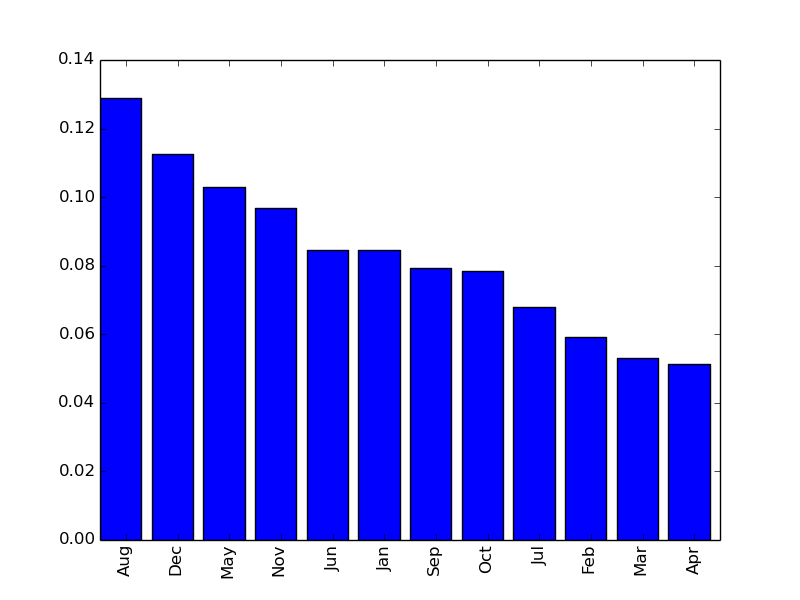
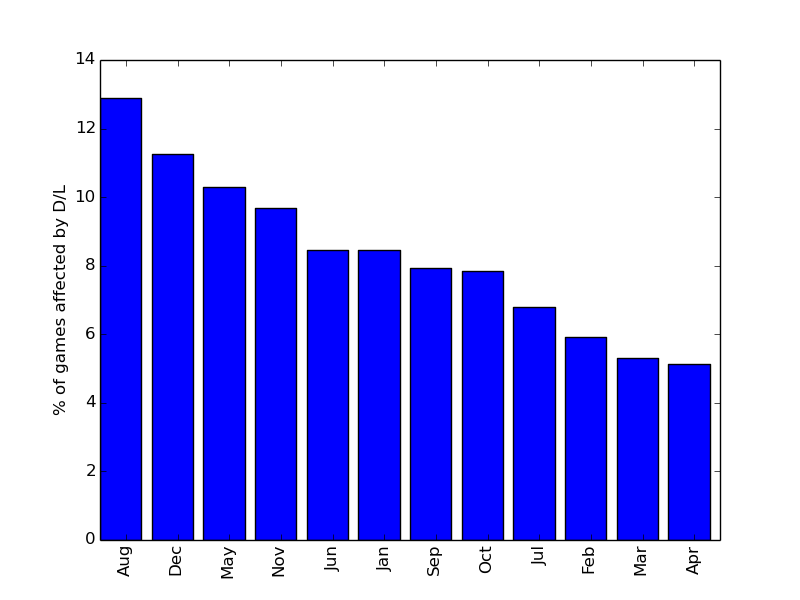
Fixed typo in introduction

diff --git a/Cricket-DuckworthLewis/index.html b/Cricket-DuckworthLewis/index.html
@@ -11778,7 +11778,7 @@ div#notebook {
 </div>
 <div class="inner_cell">
 <div class="text_cell_render border-box-sizing rendered_html">
-<h1 id="Duckworth-Lewis-in-limited-overs-cricket-matches">Duckworth-Lewis in limited overs cricket matches<a class="anchor-link" href="#Duckworth-Lewis-in-limited-overs-cricket-matches">&#182;</a></h1><h2 id="Introduction">Introduction<a class="anchor-link" href="#Introduction">&#182;</a></h2><p>Duckworth-Lewis method (<a href="https://en.wikipedia.org/wiki/Duckworth%E2%80%93Lewis_method">https://en.wikipedia.org/wiki/Duckworth%E2%80%93Lewis_method</a>) is used to calculate the modified target score for the team batting second in a cricket match where some overs are lost due to rain interruption. In this blog, I have done taken a close look at such matches, primarily focusing on location (country) and the time of the year when a match is most likely to get affected by D/L.</p>
+<h1 id="Duckworth-Lewis-in-limited-overs-cricket-matches">Duckworth-Lewis in limited overs cricket matches<a class="anchor-link" href="#Duckworth-Lewis-in-limited-overs-cricket-matches">&#182;</a></h1><h2 id="Introduction">Introduction<a class="anchor-link" href="#Introduction">&#182;</a></h2><p>Duckworth-Lewis method (<a href="https://en.wikipedia.org/wiki/Duckworth%E2%80%93Lewis_method">https://en.wikipedia.org/wiki/Duckworth%E2%80%93Lewis_method</a>) is used to calculate the modified target score for the team batting second in a cricket match where some overs are lost due to rain interruption. In this blog, I have taken a close look at such matches, primarily focusing on location (country) and the time of the year when a match is most likely to get affected by D/L.</p>
 <p>The data is available on espncricinfo.com. Scraping the website and converting the data into csv format was done by Gaurav Sood (<a href="https://github.com/soodoku/get-cricket-data">https://github.com/soodoku/get-cricket-data</a>) and Derek Willis (<a href="https://github.com/dwillis/toss-up">https://github.com/dwillis/toss-up</a>). I used the two csv files published by these authors on their respective github repositories, where they did an excellent review of the effect of toss in a cricket match (including the effect of toss on D/L affected matches).</p>
 
 </div>
@@ -11822,7 +11822,7 @@ div#notebook {
 </div>
 <div class="cell border-box-sizing code_cell rendered">
 <div class="input">
-<div class="prompt input_prompt">In&nbsp;[14]:</div>
+<div class="prompt input_prompt">In&nbsp;[2]:</div>
 <div class="inner_cell">
     <div class="input_area">
 <div class=" highlight hl-ipython2"><pre><span></span><span class="k">def</span> <span class="nf">mergeGrounds</span><span class="p">(</span><span class="n">df</span><span class="p">,</span> <span class="n">grounds</span><span class="p">):</span>
@@ -11904,7 +11904,7 @@ Clearly, day &amp; night games are affected more by D/L</p>
 </div>
 <div class="cell border-box-sizing code_cell rendered">
 <div class="input">
-<div class="prompt input_prompt">In&nbsp;[5]:</div>
+<div class="prompt input_prompt">In&nbsp;[4]:</div>
 <div class="inner_cell">
     <div class="input_area">
 <div class=" highlight hl-ipython2"><pre><span></span><span class="n">pd</span><span class="o">.</span><span class="n">options</span><span class="o">.</span><span class="n">mode</span><span class="o">.</span><span class="n">chained_assignment</span> <span class="o">=</span> <span class="bp">None</span>
@@ -11953,7 +11953,7 @@ Clearly, day &amp; night games are affected more by D/L</p>
 </div>
 <div class="cell border-box-sizing code_cell rendered">
 <div class="input">
-<div class="prompt input_prompt">In&nbsp;[6]:</div>
+<div class="prompt input_prompt">In&nbsp;[5]:</div>
 <div class="inner_cell">
     <div class="input_area">
 <div class=" highlight hl-ipython2"><pre><span></span><span class="n">totalCountries</span> <span class="o">=</span> <span class="nb">len</span><span class="p">(</span><span class="n">allMerged</span><span class="p">[</span><span class="s1">&#39;country&#39;</span><span class="p">]</span><span class="o">.</span><span class="n">value_counts</span><span class="p">())</span>
@@ -11984,7 +11984,7 @@ Clearly, day &amp; night games are affected more by D/L</p>
 </div>
 <div class="cell border-box-sizing code_cell rendered">
 <div class="input">
-<div class="prompt input_prompt">In&nbsp;[7]:</div>
+<div class="prompt input_prompt">In&nbsp;[6]:</div>
 <div class="inner_cell">
     <div class="input_area">
 <div class=" highlight hl-ipython2"><pre><span></span><span class="kn">import</span> <span class="nn">numpy</span> <span class="kn">as</span> <span class="nn">np</span>
@@ -12035,7 +12035,7 @@ Clearly, day &amp; night games are affected more by D/L</p>
 </div>
 <div class="cell border-box-sizing code_cell rendered">
 <div class="input">
-<div class="prompt input_prompt">In&nbsp;[8]:</div>
+<div class="prompt input_prompt">In&nbsp;[7]:</div>
 <div class="inner_cell">
     <div class="input_area">
 <div class=" highlight hl-ipython2"><pre><span></span><span class="n">limitedDat</span> <span class="o">=</span> <span class="n">dat</span><span class="p">[(</span><span class="n">dat</span><span class="p">[</span><span class="s1">&#39; type_of_match&#39;</span><span class="p">]</span><span class="o">!=</span><span class="s1">&#39;TEST&#39;</span><span class="p">)</span> <span class="o">&amp;</span> <span class="p">(</span><span class="n">dat</span><span class="p">[</span><span class="s1">&#39; type_of_match&#39;</span><span class="p">]</span><span class="o">!=</span><span class="s1">&#39;FC&#39;</span><span class="p">)]</span>
@@ -12061,7 +12061,7 @@ Clearly, day &amp; night games are affected more by D/L</p>
 </div>
 <div class="cell border-box-sizing code_cell rendered">
 <div class="input">
-<div class="prompt input_prompt">In&nbsp;[9]:</div>
+<div class="prompt input_prompt">In&nbsp;[8]:</div>
 <div class="inner_cell">
     <div class="input_area">
 <div class=" highlight hl-ipython2"><pre><span></span><span class="k">def</span> <span class="nf">plotCountriesPerc</span><span class="p">(</span><span class="n">df</span><span class="p">,</span> <span class="n">dfRef</span><span class="p">,</span> <span class="n">save</span><span class="o">=</span><span class="mi">0</span><span class="p">,</span> <span class="n">fName</span> <span class="o">=</span> <span class="s2">&quot;test.png&quot;</span><span class="p">):</span>
@@ -12114,7 +12114,7 @@ Clearly, day &amp; night games are affected more by D/L</p>
 </div>
 <div class="cell border-box-sizing code_cell rendered">
 <div class="input">
-<div class="prompt input_prompt">In&nbsp;[10]:</div>
+<div class="prompt input_prompt">In&nbsp;[9]:</div>
 <div class="inner_cell">
     <div class="input_area">
 <div class=" highlight hl-ipython2"><pre><span></span><span class="n">countries</span> <span class="o">=</span> <span class="n">limMerged</span><span class="p">[</span><span class="s1">&#39;country&#39;</span><span class="p">]</span><span class="o">.</span><span class="n">value_counts</span><span class="p">()</span>
@@ -12135,15 +12135,6 @@ Clearly, day &amp; night games are affected more by D/L</p>
 </div>
 <div class="inner_cell">
 <div class="text_cell_render border-box-sizing rendered_html">
-
-</div>
-</div>
-</div>
-<div class="cell border-box-sizing text_cell rendered">
-<div class="prompt input_prompt">
-</div>
-<div class="inner_cell">
-<div class="text_cell_render border-box-sizing rendered_html">
 <p><img src="./figures/07-DL-topCountries-percentage.png" alt="title"></p>
 <p>We see games in Sri Lanka has the highest probability of being affected by D/L.</p>
 <p>Since D/L is directly linked to the weather, there might be a correlation between the time of the year when the match is being played and the probability of the match being affected by D/L. Let us look at that.</p>
@@ -12153,7 +12144,7 @@ Clearly, day &amp; night games are affected more by D/L</p>
 </div>
 <div class="cell border-box-sizing code_cell rendered">
 <div class="input">
-<div class="prompt input_prompt">In&nbsp;[11]:</div>
+<div class="prompt input_prompt">In&nbsp;[10]:</div>
 <div class="inner_cell">
     <div class="input_area">
 <div class=" highlight hl-ipython2"><pre><span></span><span class="k">def</span> <span class="nf">plotMonths</span><span class="p">(</span><span class="n">df</span><span class="p">,</span><span class="n">save</span><span class="o">=</span><span class="mi">0</span><span class="p">,</span><span class="n">fName</span><span class="o">=</span><span class="s1">&#39;test.png&#39;</span><span class="p">):</span>
@@ -12168,8 +12159,9 @@ Clearly, day &amp; night games are affected more by D/L</p>
     
     <span class="n">names</span> <span class="o">=</span> <span class="nb">list</span><span class="p">(</span><span class="n">monthCounts</span><span class="o">.</span><span class="n">index</span><span class="p">)</span>
     <span class="n">xVals</span> <span class="o">=</span> <span class="n">np</span><span class="o">.</span><span class="n">array</span><span class="p">(</span><span class="nb">range</span><span class="p">(</span><span class="nb">len</span><span class="p">(</span><span class="n">monthCounts</span><span class="p">)))</span>
-    <span class="n">plt</span><span class="o">.</span><span class="n">bar</span><span class="p">(</span><span class="n">xVals</span><span class="p">,</span> <span class="n">monthCounts</span><span class="o">/</span><span class="n">np</span><span class="o">.</span><span class="n">sum</span><span class="p">(</span><span class="n">monthCounts</span><span class="p">))</span>
+    <span class="n">plt</span><span class="o">.</span><span class="n">bar</span><span class="p">(</span><span class="n">xVals</span><span class="p">,</span> <span class="mf">100.</span><span class="o">*</span><span class="n">monthCounts</span><span class="o">/</span><span class="n">np</span><span class="o">.</span><span class="n">sum</span><span class="p">(</span><span class="n">monthCounts</span><span class="p">))</span>
     <span class="n">plt</span><span class="o">.</span><span class="n">xticks</span><span class="p">(</span><span class="n">xVals</span><span class="o">+</span><span class="mf">0.5</span><span class="p">,</span> <span class="n">names</span><span class="p">,</span> <span class="n">rotation</span><span class="o">=</span><span class="s1">&#39;vertical&#39;</span><span class="p">)</span>
+    <span class="n">plt</span><span class="o">.</span><span class="n">ylabel</span><span class="p">(</span><span class="s2">&quot;</span><span class="si">% o</span><span class="s2">f games affected by D/L&quot;</span><span class="p">)</span>
     <span class="k">if</span> <span class="p">(</span><span class="n">save</span><span class="p">):</span>
         <span class="n">plt</span><span class="o">.</span><span class="n">savefig</span><span class="p">(</span><span class="s2">&quot;./figures/&quot;</span><span class="o">+</span><span class="n">fName</span><span class="p">)</span>  
     <span class="n">plt</span><span class="o">.</span><span class="n">show</span><span class="p">()</span>
@@ -12196,7 +12188,7 @@ Clearly, day &amp; night games are affected more by D/L</p>
 </div>
 <div class="cell border-box-sizing code_cell rendered">
 <div class="input">
-<div class="prompt input_prompt">In&nbsp;[15]:</div>
+<div class="prompt input_prompt">In&nbsp;[&nbsp;]:</div>
 <div class="inner_cell">
     <div class="input_area">
 <div class=" highlight hl-ipython2"><pre><span></span><span class="n">Months</span> <span class="o">=</span> <span class="n">allMerged</span><span class="p">[</span><span class="s1">&#39; date&#39;</span><span class="p">]</span><span class="o">.</span><span class="n">str</span><span class="o">.</span><span class="n">split</span><span class="p">()</span><span class="o">.</span><span class="n">apply</span><span class="p">(</span><span class="n">pd</span><span class="o">.</span><span class="n">Series</span><span class="p">,</span> <span class="mi">1</span><span class="p">)</span><span class="o">.</span><span class="n">stack</span><span class="p">()[:,</span><span class="mi">0</span><span class="p">]</span>
@@ -12229,7 +12221,7 @@ That is  99.56 % of total matches
 </div>
 <div class="cell border-box-sizing code_cell rendered">
 <div class="input">
-<div class="prompt input_prompt">In&nbsp;[13]:</div>
+<div class="prompt input_prompt">In&nbsp;[&nbsp;]:</div>
 <div class="inner_cell">
     <div class="input_area">
 <div class=" highlight hl-ipython2"><pre><span></span><span class="kn">import</span> <span class="nn">datetime</span>
@@ -12279,23 +12271,6 @@ That is  99.56 % of total matches
 </div>
 </div>
 
-<div class="output_wrapper">
-<div class="output">
-
-
-<div class="output_area">
-<div class="prompt"></div>
-
-<div class="output_subarea output_stream output_stderr output_text">
-<pre>/usr/lib/pymodules/python2.7/matplotlib/collections.py:548: FutureWarning: elementwise comparison failed; returning scalar instead, but in the future will perform elementwise comparison
-  if self._edgecolors == &#39;face&#39;:
-</pre>
-</div>
-</div>
-
-</div>
-</div>
-
 </div>
 <div class="cell border-box-sizing text_cell rendered">
 <div class="prompt input_prompt">
@@ -12307,6 +12282,19 @@ That is  99.56 % of total matches
 
 </div>
 </div>
+</div>
+<div class="cell border-box-sizing code_cell rendered">
+<div class="input">
+<div class="prompt input_prompt">In&nbsp;[&nbsp;]:</div>
+<div class="inner_cell">
+    <div class="input_area">
+<div class=" highlight hl-ipython2"><pre><span></span> 
+</pre></div>
+
+</div>
+</div>
+</div>
+
 </div>
     </div>
   </div>

diff --git a/Cricket-DuckworthLewis/scripts/DuckworthLewis-analysis.py b/Cricket-DuckworthLewis/scripts/DuckworthLewis-analysis.py
@@ -227,7 +227,7 @@ def plotMonths(df,save=0,fName='test.png'):
     
     names = list(monthCounts.index)
     xVals = np.array(range(len(monthCounts)))
-    plt.bar(xVals, monthCounts/np.sum(monthCounts))
+    plt.bar(xVals, 100.*monthCounts/np.sum(monthCounts))
     plt.xticks(xVals+0.5, names, rotation='vertical')
     if (save):
         plt.savefig("../figures/"+fName)  
